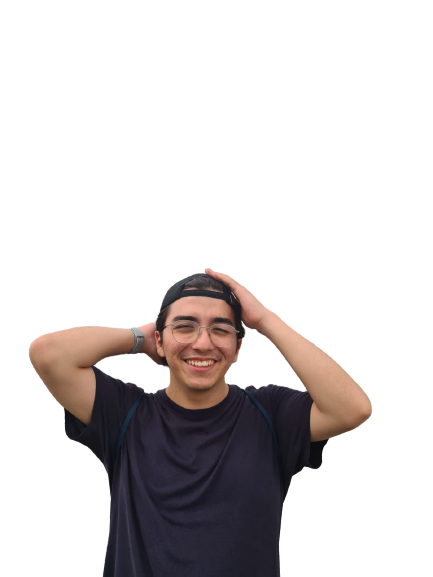
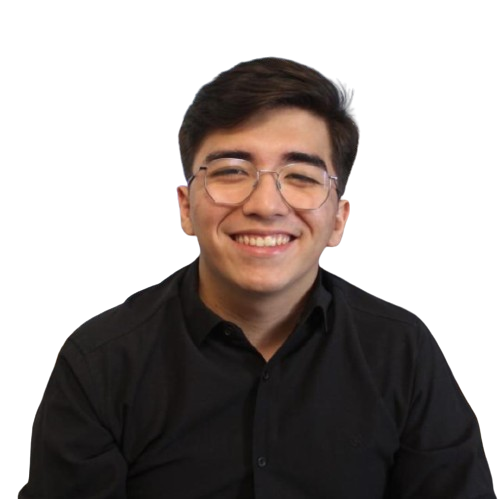
feat(image-darkmode): atualiza imagem blob e melhora cores darkmode

diff --git a/assets/css/styles.css b/assets/css/styles.css
@@ -16,6 +16,7 @@
   --input-color: hsl(var(--hue-color), 70%, 95%);
   --body-color: hsl(var(--hue-color), 60%, 99%);
   --container-color: #fff;
+  --contact-color: black;
 
   /*--- typo---*/
   --body-font: "Ubuntu", sans-serif;
@@ -71,6 +72,10 @@ body.dark-theme {
   --input-color: hsl(var(--hue-color), 65%, 16%);
   --body-color: hsl(var(--hue-color), 35%, 12%);
   --container-color: hsl(var(--hue-color), 29%, 16%);
+  background-image: url("../img/Wallpaper-v2.png");
+  background-attachment: local;
+  background-size: cover;
+  --contact-color: white;
 }
 
 /* invert footer logo image*/
@@ -108,7 +113,7 @@ body {
   font-size: var(--normal-font-size);
   background-color: var(--body-color);
   color: var(--text-color);
-  background-image: url("../img/Wallpaper-v2.png");
+  background-image: url("../img/Wallpaper-v2-white.png");
   background-attachment: local;
   background-size: cover;
 }
@@ -325,7 +330,7 @@ img {
 }
 
 .home__blob-img {
-  width: 200px;
+  width: 170px;
 }
 
 .home__data {
@@ -783,7 +788,7 @@ img {
 
 .contact__subtitle {
   font-size: var(--small-font-size);
-  color: var(--text-color-light);
+  color: var(--contact-color);
 }
 
 .contact__content {

diff --git a/index.html b/index.html
@@ -137,8 +137,8 @@
 
                   <image
                     class="home__blob-img"
-                    x="10"
-                    y="-65"
+                    x="12"
+                    y="17"
                     xlink:href="assets/img/front-image-self.png"
                   />
                 </g>
@@ -735,7 +735,7 @@
       <!-- contact -->
       <section class="contact section" id="contact">
         <h2 class="section_title">Contact Me :D</h2>
-        <span class="section_subtitle">Get in touch!</span>
+        <span class="section_subtitle"></span>
         <div class="contact__container container grid">
           <div>
             <div class="contact__information">
